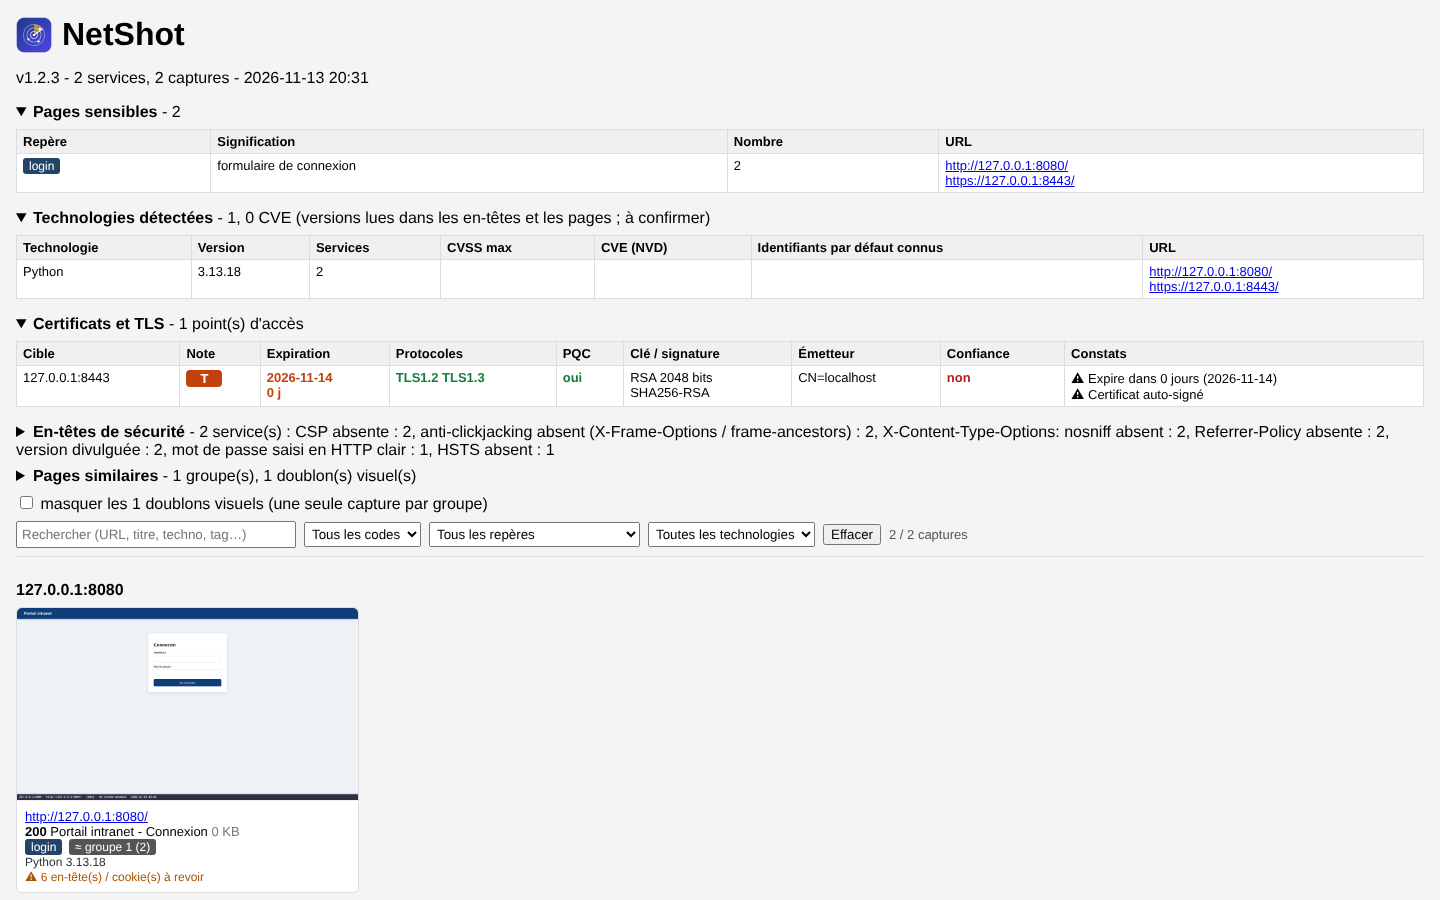
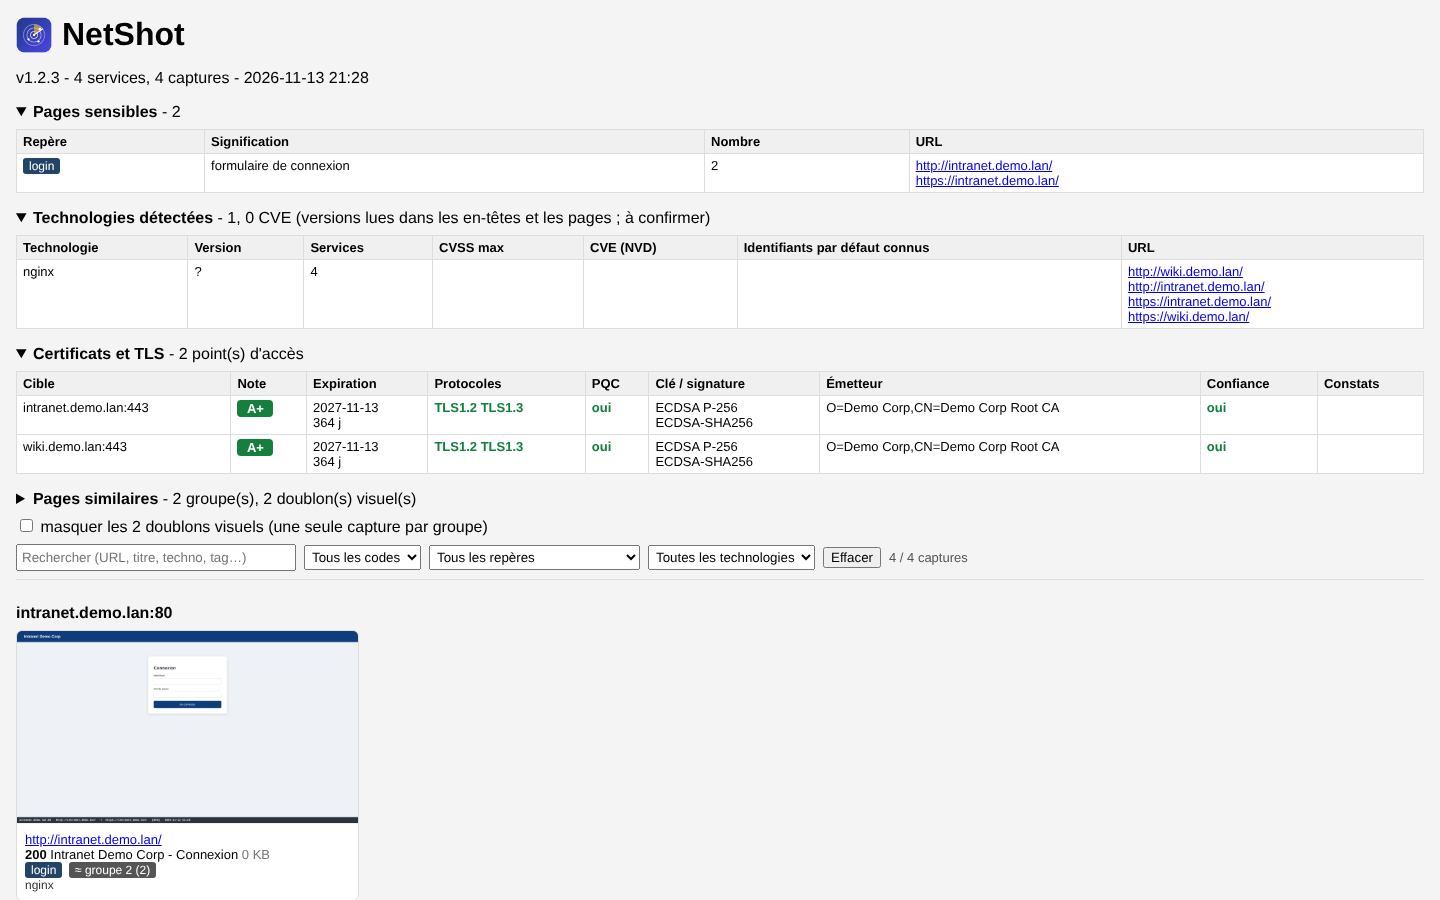
README : captures cohérentes (intranet de démonstration noté A+)
Certificat signé par une autorité interne de confiance, TLS 1.2 AEAD et 1.3, PQC, HSTS :
plus de certificat auto-signé noté T à côté d'un PQC « oui ».

Claude-Session: https://claude.ai/code/session_01DHXZEEBybHgq8eFqwoZAWK

diff --git a/CHANGELOG.md b/CHANGELOG.md
@@ -15,9 +15,12 @@ aux couleurs de la version Python).
   `assets/icon-32.png` dessiné pour 32 px, utilisé dans l'en-tête de la fenêtre à la place de
   l'image de 256 px réduite (plus net). Les deux sont produits par `tools/mkicon` de la version Go
   (`go run ./tools/mkicon -variant python -out ../netshot/assets`).
-- Captures du README refaites (renommées pour que GitHub ne montre plus l'ancienne image en cache) sur un intranet de démonstration (page de connexion en http et
-  https) : onglet Scan après la capture, et nouvelle capture du rapport HTML du même scan
-  (`docs/netshot-python-rapport.png`).
+- Captures du README refaites sur un intranet de démonstration cohérent : deux sites
+  (`intranet.demo.lan` avec page de connexion, `wiki.demo.lan`), http redirigé vers https,
+  certificat ECDSA P-256 valable un an signé par une autorité interne de confiance, TLS 1.2
+  (suites AEAD seulement) et 1.3, PQC, HSTS et en-têtes de sécurité : note A+. Onglet Scan
+  après la capture, et capture du rapport HTML du même scan. Fichiers renommés
+  (`docs/*-scan.png`, `docs/*-rapport.png`) pour que GitHub ne montre plus l'ancienne image en cache.
 
 ### Fichiers
 - `assets/icon.png`, `assets/icon-32.png`, `core/gui.py`, `core/__init__.py`, `README.md`,
